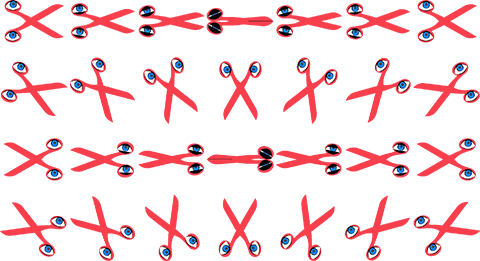
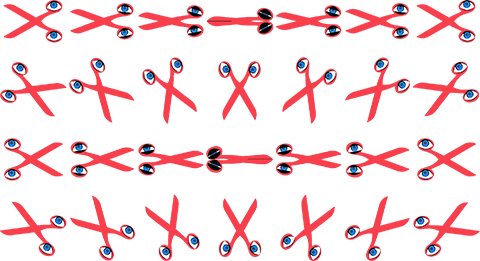
updated scissors, signs, and background image

diff --git a/client/style.css b/client/style.css
@@ -3,13 +3,13 @@ body {
 }
 
 #game {
-  float: left;
+  position: left;
   width: 50%;
   height: 512px;
   position: absolute;
   top: 0;
   bottom: 0;
-  left: 0;
+  left: 5em;
   right: 0;
   margin: auto;
 }
@@ -18,9 +18,13 @@ body {
   float: left;
   width: 25%;
   height: 100vh;
-  background-position: left top, left bottom, right 10px bottom 35px, center;
-  background-size: 45%, 35%, 15%, contain;
+  margin: 0;
+  background-image: url("src/assets/hanging_sign.png");
+  background-position: center;
+  background-repeat: no-repeat;
+  background-size: contain;
 }
+
 
 #left div {
   display: block;
@@ -31,6 +35,12 @@ body {
   width: 25%;
   height: 100vh;
   margin: 0;
-  background-position: right bottom, right top, left 10px top 35px, center;
-  background-size: 40%, 35%, 15%, contain;
+  background-image: url("src/assets/hanging_sign.png");
+  background-position: center;
+  background-repeat: no-repeat;
+  background-size: contain;
+}
+
+#right div {
+  display: block;
 }
